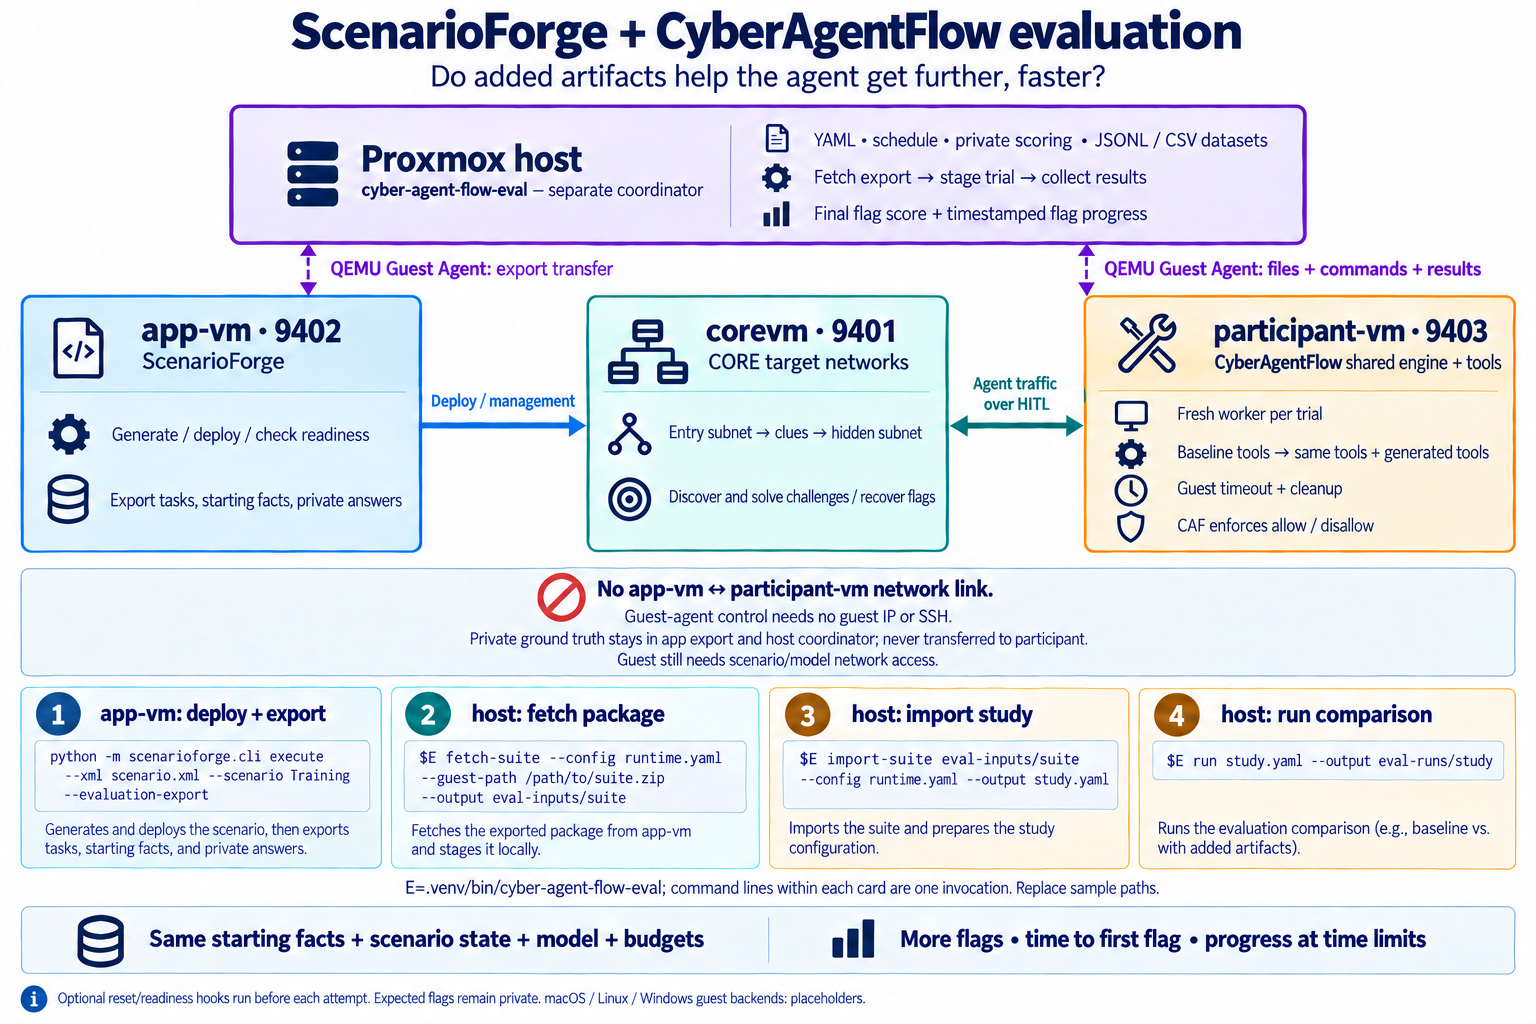
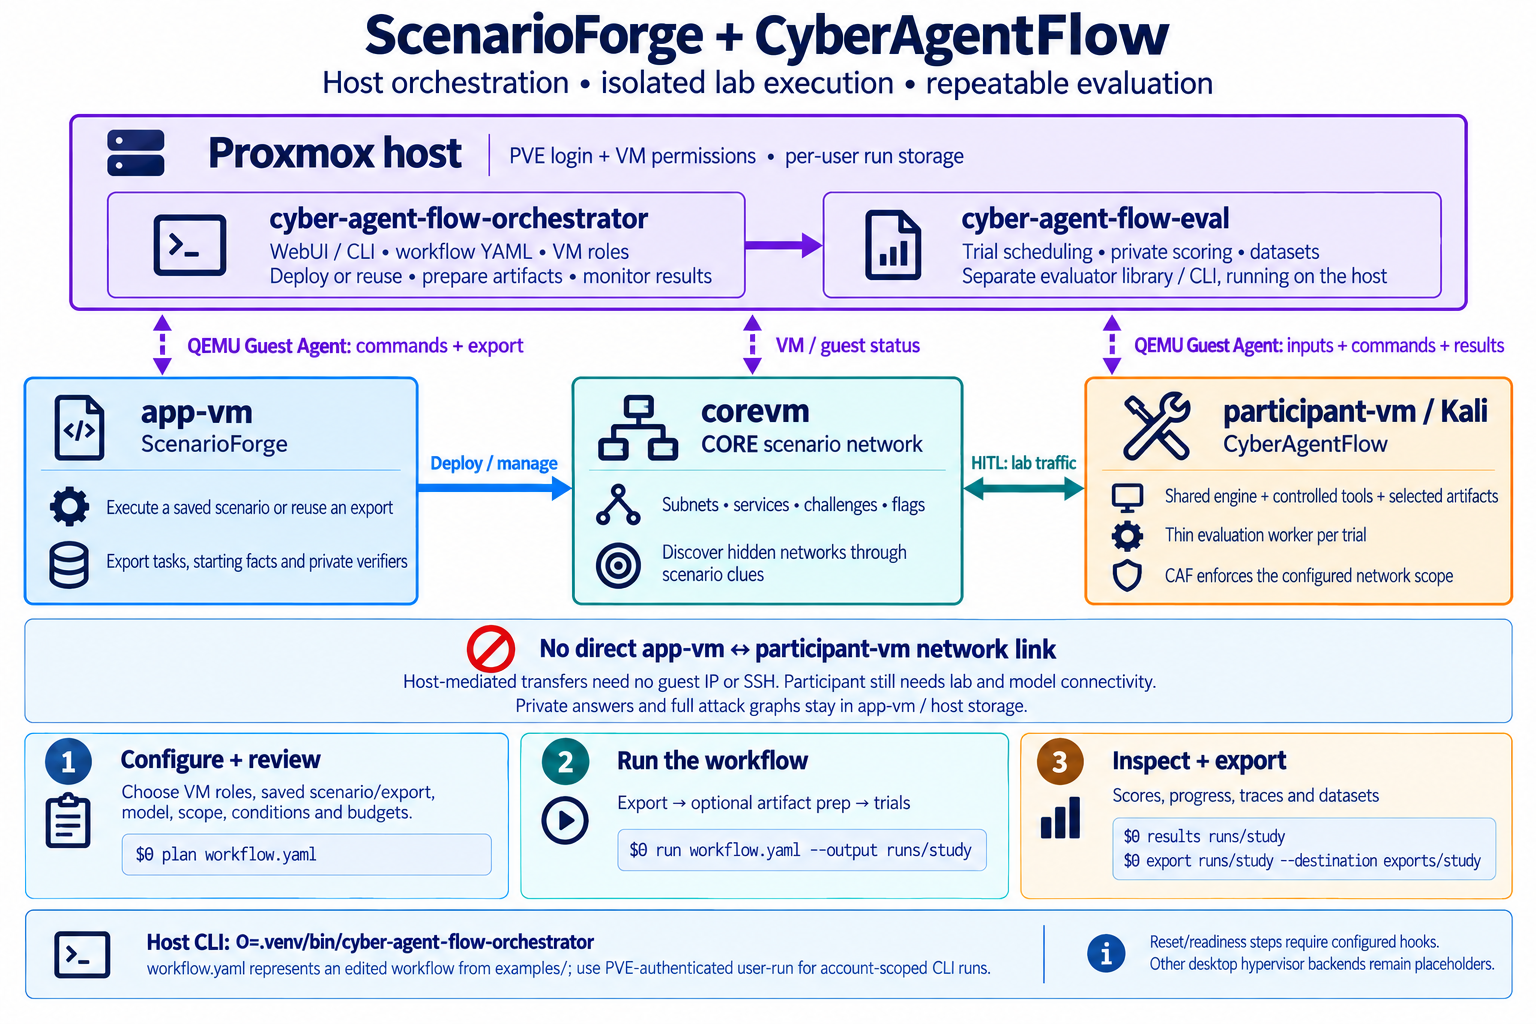
Update host architecture and document orchestrated evaluation flow

Changed region(s): [[0.0, 0.0, 1.0, 1.0]]

diff --git a/docs/architecture-image-prompt.md b/docs/architecture-image-prompt.md
@@ -1,55 +1,142 @@
-# Architecture PNG provenance
+# Architecture and evaluation PNG provenance
 
-Generated with the built-in `image_gen` tool, using the previous
-`cyber-agent-flow/scenarioforge_cyber-agent-flow.png` as the edit target. The
-final result is saved as `scenarioforge_cyber-agent-flow.png` at the root of
-both the CAF and evaluator projects. The evaluator copy is embedded in its README
-and example guide. Command details and runnable examples are maintained in Markdown.
+Updated September 28, 2026 using the built-in image generation tool. The previous
+architecture PNG was the edit target; the evaluation flow is a new companion image.
+The diagrams separate the host orchestrator and host evaluator from the participant
+worker. Matching PNGs are stored in the CAF, evaluator and orchestrator repositories.
 
-## Architecture edit prompt
+- `scenarioforge_cyber-agent-flow.png`: topology and workflow sequence.
+- `scenarioforge_cyber-agent-flow-eval.png`: study inputs, conditions, trials,
+  private scoring and human review.
+
+Commands and limitations also appear in the orchestrator's
+`docs/evaluation-diagrams.md`. The figures were visually reviewed against current
+code and documentation; generation is not evidence of a live deployment test.
+
+## Architecture prompt
 
 ```text
-Use case: infographic-diagram. Edit target: the supplied architecture PNG. Replace its obsolete topology and commands with the current design below. Preserve the clean professional navy typography, white background, pale blue/teal/amber cards, simple flat icons, and crisp arrows. Recompose as a spacious large landscape technical infographic, ideally 2400x1600 or larger. Exact spelling is essential. Do not keep the manual ZIP transfer banner, old python -m experiments commands, or evaluator coordinator inside participant-vm.
+Edit the provided architecture infographic into an updated, polished, accurate technical diagram. Use the supplied image as edit target and visual reference: retain white background, dark navy typography, pale purple host, blue ScenarioForge, teal CORE, amber participant, simple vector-like icons, crisp arrows. Redesign spacing as needed. Large landscape 3:2 image, about 3000x2000, sharp readable text. No decorative 3D or gradients that impair text.
 
-Title: "ScenarioForge + CyberAgentFlow evaluation"
-Subtitle: "Do added artifacts help the agent get further, faster?"
+Title: "ScenarioForge + CyberAgentFlow"
+Subtitle: "Host orchestration • isolated lab execution • repeatable evaluation"
 
-Topology upper two thirds:
-Top wide purple-accent card: "Proxmox host" and "cyber-agent-flow-eval — separate coordinator". Contents: "YAML • schedule • private scoring • JSONL / CSV datasets", "Fetch export → stage trial → collect results", "Final flag score + timestamped flag progress".
-Below it three clear cards horizontally:
-Left blue "app-vm · 9402", "ScenarioForge", "Generate / deploy / check readiness", "Export tasks, starting facts, private answers".
-Center teal "corevm · 9401", "CORE target networks", "Entry subnet → clues → hidden subnet", "Discover and solve challenges / recover flags".
-Right amber "participant-vm · 9403", "CyberAgentFlow shared engine + tools", "Fresh worker per trial", "Baseline tools → same tools + generated tools", "Guest timeout + cleanup", "CAF enforces allow / disallow".
-Dashed purple bidirectional connection ONLY between host and app labeled "QEMU Guest Agent: export transfer". Dashed purple bidirectional connection ONLY between host and participant labeled "QEMU Guest Agent: files + commands + results". These denote host/guest channels, not network paths.
-Solid blue app→core arrow: "Deploy / management".
-Solid teal participant↔core arrow: "Agent traffic over HITL".
-No direct app↔participant line or connection.
-Standalone clear caption: "No app-vm ↔ participant-vm network link. Guest-agent control needs no guest IP or SSH."
-Private ground truth stays in app export and host coordinator; never draw private answers transferred to participant. Guest still needs scenario/model network access.
+Top wide container "Proxmox host", with two distinct software cards and an arrow from the first to the second:
+"cyber-agent-flow-orchestrator"
+"WebUI / CLI • workflow YAML • VM roles"
+"Deploy or reuse • prepare artifacts • monitor results"
+second card "cyber-agent-flow-eval"
+"Trial scheduling • private scoring • datasets"
+"Separate evaluator library / CLI, running on the host"
+A small line in the host: "PVE login + VM permissions • per-user run storage"
 
-Lower third: readable numbered workflow cards, exact compact commands, avoid code wrapping confusion:
-1. "app-vm: deploy + export"
-"python -m scenarioforge.cli execute"
-"--xml scenario.xml --scenario Training"
-"--evaluation-export"
-2. "host: fetch package"
-"eval fetch-suite --config runtime.yaml"
-"--guest-path /path/to/suite.zip"
-"--output eval-inputs/suite"
-3. "host: import study"
-"eval import-suite eval-inputs/suite"
-"--config runtime.yaml --output study.yaml"
-4. "host: run comparison"
-"eval run study.yaml --output eval-runs/study"
-Caption below commands: "eval = .venv/bin/cyber-agent-flow-eval; command lines within each card are one invocation. Replace sample paths."
+Below, three horizontally arranged VM cards:
+LEFT blue: "app-vm" / "ScenarioForge"
+"Execute a saved scenario or reuse an export"
+"Export tasks, starting facts and private verifiers"
+CENTER teal: "corevm" / "CORE scenario network"
+"Subnets • services • challenges • flags"
+"Discover hidden networks through scenario clues"
+RIGHT amber: "participant-vm / Kali" / "CyberAgentFlow"
+"Shared engine + controlled tools + selected artifacts"
+"Thin evaluation worker per trial"
+"CAF enforces the configured network scope"
 
-Bottom compact strip: "Same starting facts + scenario state + model + budgets" | "More flags • time to first flag • progress at time limits"
-Footnote: "Optional reset/readiness hooks run before each attempt. Expected flags remain private. macOS / Linux / Windows guest backends: placeholders."
-Do not suggest automatic hints, built-in scenario reset, guest networking via host, or completed live testing. All text must be readable and diagrams unambiguous.
+Dashed purple bidirectional host-to-app arrow labeled "QEMU Guest Agent: commands + export".
+Dashed purple bidirectional host-to-participant arrow labeled "QEMU Guest Agent: inputs + commands + results".
+A small dashed host-to-core line labeled "VM / guest status"; do not obscure labels.
+Solid blue arrow app to core labeled "Deploy / manage".
+Solid teal bidirectional arrow core to participant labeled "HITL: lab traffic".
+Do NOT draw any direct app-to-participant connection.
+
+A distinct boundary caption:
+"No direct app-vm ↔ participant-vm network link"
+"Host-mediated transfers need no guest IP or SSH. Participant still needs lab and model connectivity."
+"Private answers and full attack graphs stay in app-vm / host storage."
+
+Bottom sequence: three numbered horizontally arranged cards:
+"1  Configure + review"
+"Choose VM roles, saved scenario/export,"
+"model, scope, conditions and budgets."
+code "$O plan workflow.yaml"
+"2  Run the workflow"
+"Export → optional artifact prep → trials"
+code "$O run workflow.yaml --output runs/study"
+"3  Inspect + export"
+"Scores, progress, traces and datasets"
+code "$O results runs/study"
+code "$O export runs/study --destination exports/study"
+
+Caption below commands, exact:
+"Host CLI: O=.venv/bin/cyber-agent-flow-orchestrator"
+"workflow.yaml represents an edited workflow from examples/; use PVE-authenticated user-run for account-scoped CLI runs."
+Footnote: "Reset/readiness steps require configured hooks. Other desktop hypervisor backends remain placeholders."
+Do not include old eval fetch/import commands, fixed VM IDs, automatic hints, automatic resets, or an evaluator coordinator inside participant-vm. Text must be legible and correctly spelled.
 ```
 
-## Final correction prompt
+## Evaluation flow prompt
 
 ```text
-Edit this infographic with exactly one typography correction. Preserve ALL topology, layout, artwork, colors and other text. In workflow cards 2, 3, and 4 replace the command-prefix word `eval` with literal `$E` (dollar sign then uppercase E). Thus commands start `$E fetch-suite`, `$E import-suite`, and `$E run`. In the caption immediately below those cards replace `eval = .venv/bin/cyber-agent-flow-eval` with exactly `E=.venv/bin/cyber-agent-flow-eval`. Keep the remainder of caption: `command lines within each card are one invocation. Replace sample paths.` This makes the diagram use a valid shell variable instead of the shell's built-in eval command. Make no other changes.
+Create a polished technical infographic PNG, landscape 3:2 roughly 3000x2000, with white background, navy typography, pastel purple host, blue inputs, amber guest execution, teal output. Crisp vector-like cards, flat icons, precise arrows, generous whitespace, readable type. It complements an architecture diagram for ScenarioForge and CyberAgentFlow. No unnecessary decoration.
+
+Title: "How orchestrated evaluation works"
+Subtitle: "Do generated artifacts help the agent get further, faster?"
+
+Use a clear numbered flow, top row 1→2→3 on HOST, center loop showing guest execution and private host scoring, bottom output. Explicitly label who owns each step.
+
+1 card "Configure the study" / "Human / workflow YAML"
+"Saved scenario or existing evaluation ZIP"
+"Model + scope + turn/time budgets"
+"Conditions + repetitions + order seed"
+"Prompts from task YAML or imported suite"
+
+2 card "Prepare inputs" / "Orchestrator on host"
+"Deploy/export or fetch existing package"
+"Check readiness; retain private verifiers"
+"Optional configured generation/test commands"
+"Select fixed artifacts before evaluation"
+Small blue source pill pointing into this card: "ScenarioForge on app-vm"
+
+3 card "Build the trial schedule" / "Evaluator on host"
+"Tasks × conditions × repetitions"
+"Example: 2 tasks × 2 conditions × 3 repeats"
+"= 12 trials"
+"Record configuration and artifact hashes"
+
+Middle large area labeled "Repeat for each trial" with two distinct side-by-side regions:
+LEFT "Participant VM — thin worker + CAF engine"
+Small arrow entering from schedule labeled "QEMU Guest Agent: participant inputs only"
+"One task prompt + starting facts"
+"Selected tool catalog + optional guidance"
+"Model ↔ tool calls within turn/time limits"
+"Lab actions over HITL → CORE challenges"
+"Return response, tool traces and timings"
+RIGHT "Host evaluator — private scoring"
+"Compare final answer with private verifiers"
+"Record flags observed and partial progress"
+"Measure time to first flag and time-budget progress"
+"Record success, timeout or error"
+Connect guest LEFT to private host RIGHT with arrow "Collect results through guest agent".
+A loop arrow from scoring back to trial input labeled "Next scheduled trial".
+Small text above the loop: "Configured reset/readiness hooks run before each attempt; reset is not automatic."
+Small lock callout in host scoring: "Expected answers and full attack graphs are never staged to the participant."
+
+Separate visible comparison strip:
+"Baseline: controlled tool set"
+"Added artifacts: same tool set + selected generated tool and/or guidance"
+"Keep task, starting facts, model and budgets matched; restore comparable lab state."
+
+Bottom two connected cards:
+"Review and export" / "Orchestrator WebUI / CLI"
+"Condition summaries • trial status • logs"
+"Evaluator: JSONL / CSV datasets and provenance"
+"Human decision"
+"Inspect whether added artifacts improve progress or speed"
+"Revise/test artifacts between studies, then rerun"
+Small human icon; emphasize teaming, no fully autonomous generation loop.
+
+Footer: "Artifact generation and repair stay outside scored trials. Catalog/guidance snapshots do not freeze executable dependencies."
+Footer command: "$O results runs/study"
+Footer alias: "O=.venv/bin/cyber-agent-flow-orchestrator"
+Important: distinguish separate orchestrator from evaluator; both coordinators on host. Do not depict evaluator coordinator in VM. No automatic hints, no promise of auto scenario reset, no network link app-vm to participant. No security scans of public networks. This is a controlled scenario lab.
 ```

diff --git a/docs/artifact-evaluation-workflow.md b/docs/artifact-evaluation-workflow.md
@@ -28,8 +28,12 @@ flowchart LR
     Eval --> Data[Trial records and datasets]
 ```
 
-The evaluator is a separate project on participant-vm; it selects the CAF checkout
-through configuration. The diagram below shows the software boundary.
+The evaluator is a separate project and selects the CAF checkout through
+configuration. With the Proxmox orchestrator, its coordinator runs on the host;
+only a thin worker and the shared CAF engine run in participant-vm. Standalone
+local evaluation can instead run the evaluator alongside CAF in the participant.
+See the [host architecture](../scenarioforge_cyber-agent-flow.png) and
+[evaluation flow](../scenarioforge_cyber-agent-flow-eval.png).
 
 ## Where each component runs
 
@@ -38,7 +42,9 @@ through configuration. The diagram below shows the software boundary.
 | ScenarioForge on app-vm | Author and deploy scenarios; generate clues, guides and attack graphs; export tasks, private answers and readiness evidence |
 | CORE on corevm | Run the scenario hosts, services, flags, routes and pivots |
 | CAF main application on participant-vm / Kali | Interactive teaming, analysis, artifact generation, repair and tests |
-| Separate evaluation CLI on participant-vm / Kali | Read evaluation YAML and frozen artifacts; run the shared engine; score and export attempts |
+| Orchestrator on Proxmox host | Run the configured lab workflow, retrieve exports, prepare artifacts, monitor and expose results |
+| Evaluator coordinator on Proxmox host | Read evaluation YAML and fixed condition inputs; schedule trials, privately score and export attempts |
+| Thin evaluation worker on participant-vm / Kali | Run the shared CAF engine with the selected catalog/guidance and return trial evidence |
 
 ScenarioForge manages CORE over its management connection. CAF reaches scenario
 targets through HITL. In this lab, app-vm and participant-vm have no direct network

diff --git a/README.md b/README.md
@@ -17,11 +17,13 @@ and calls this evaluator. The evaluator remains usable standalone and owns trial
 scheduling, workers, scoring and dataset export. In Proxmox mode both coordinators
 run on the host; only the thin worker and CAF engine run inside participant-vm.
 
-The figure below shows the evaluator execution layer. The
+The figure below shows the current host orchestration and evaluator architecture. The
 [orchestrator architecture and examples](../cyber-agent-flow-orchestrator/README.md)
 show the enclosing lab workflow.
 
 ![ScenarioForge and CyberAgentFlow host evaluation](scenarioforge_cyber-agent-flow.png)
+
+![Orchestrated evaluation: conditions, trials, private scoring and results](scenarioforge_cyber-agent-flow-eval.png)
 
 Start with the [three simple experiments](examples/README.md): a no-tools smoke
 test, controlled tools versus one added helper, and a ScenarioForge challenge suite.
